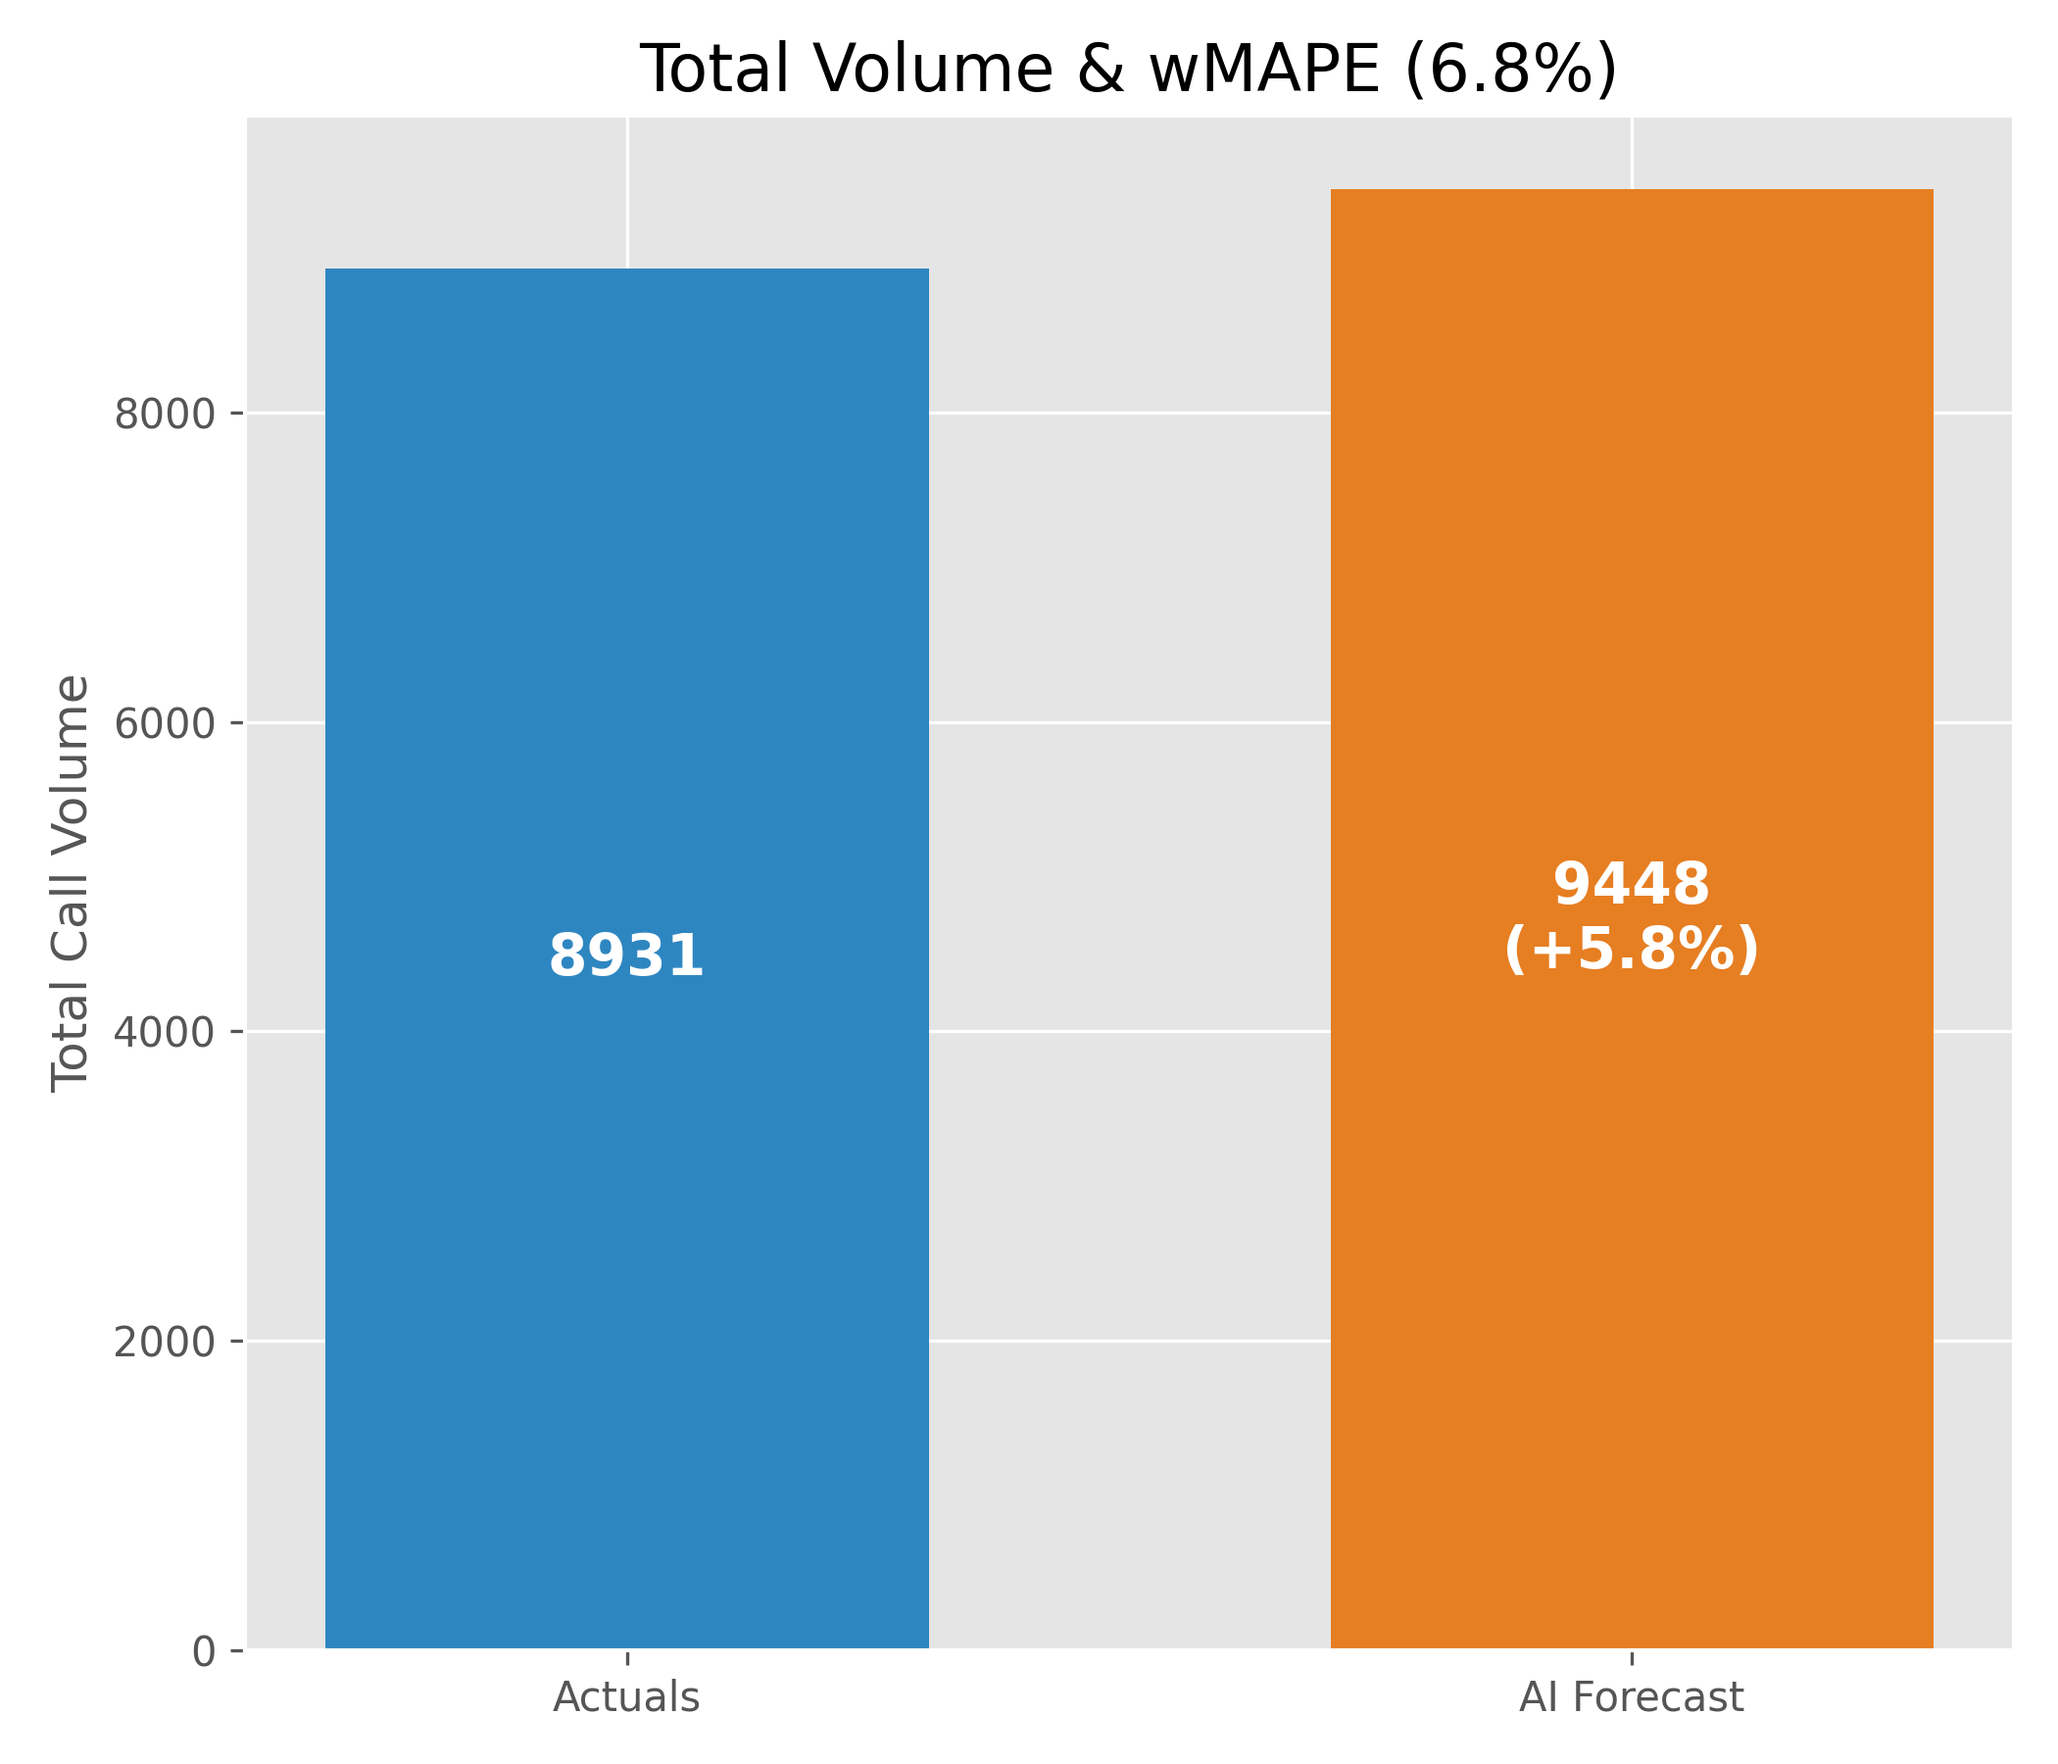
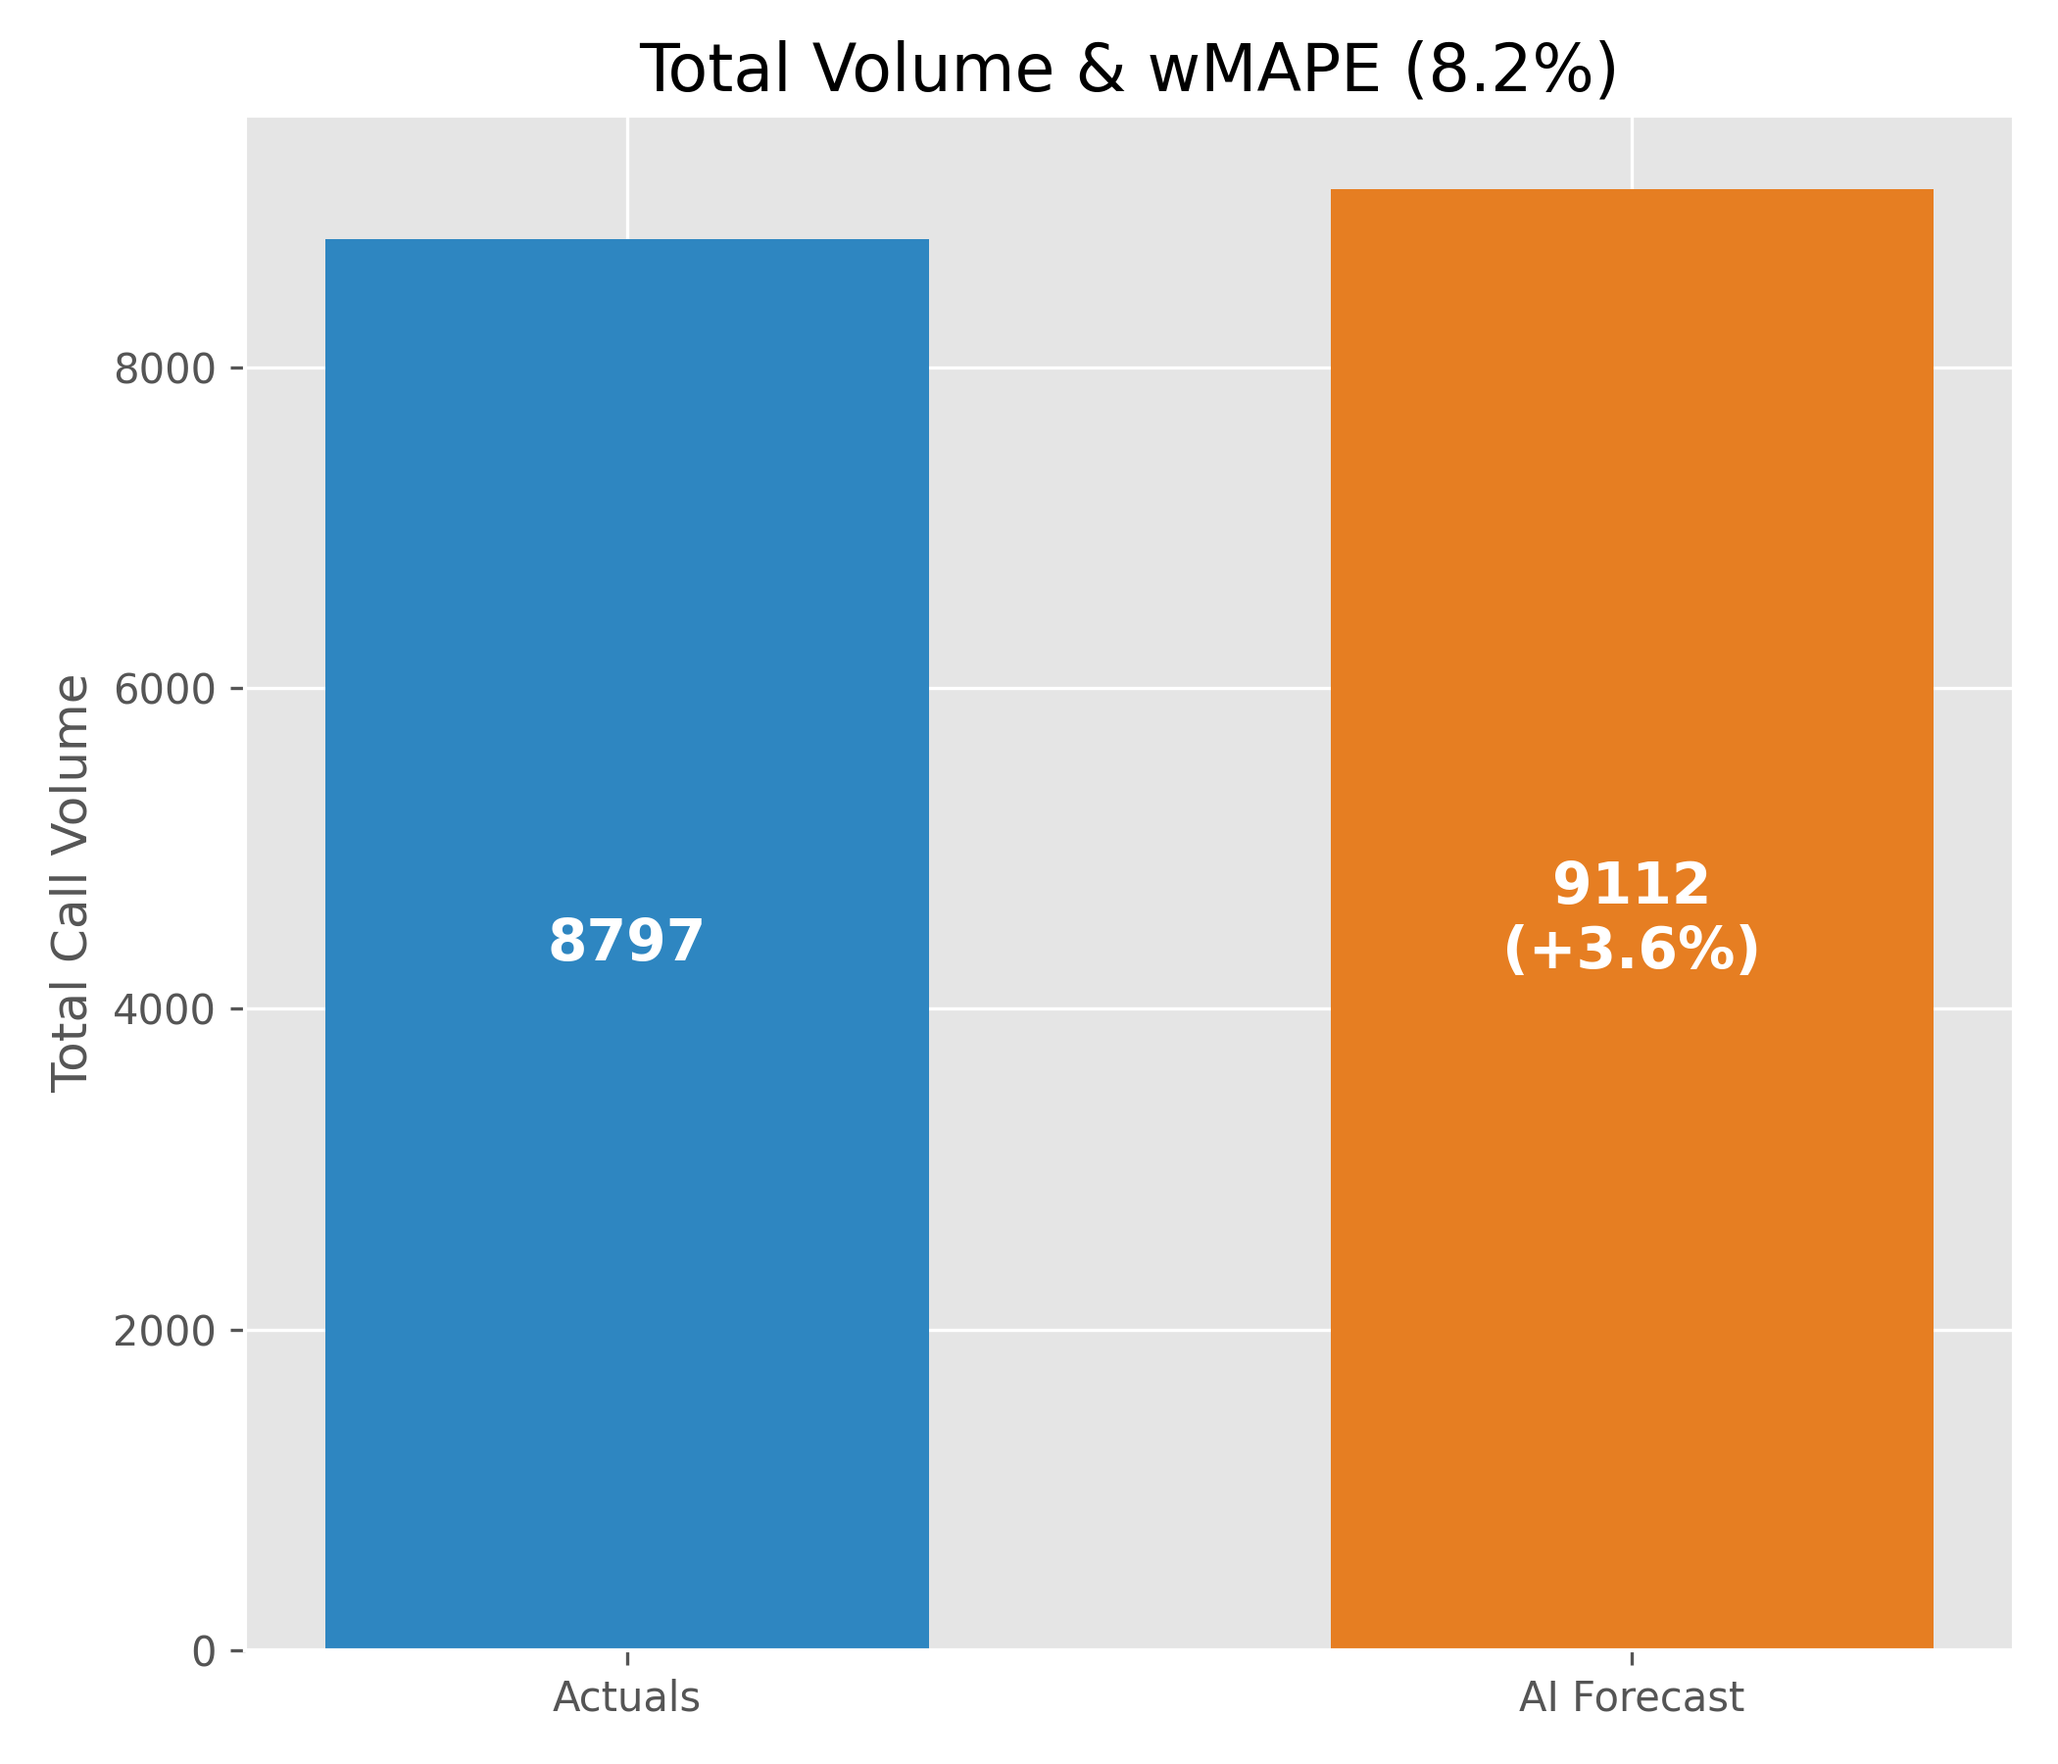
changed the hardcoded date in evaluate, new png files from the last test,mixed evaluate and generate vizuals

diff --git a/4_evaluate_forcast.py b/4_evaluate_forcast.py
@@ -1,33 +1,48 @@
 """
 ================================================================
-JOBB 4: Utvärdera Prognos (SNIPER EDITION)
+JOBB 4: Utvärdera Prognos (ALL-IN-ONE: SNIPER + GRAFIK)
 ================================================================
- Hämtar inte bara på datum (YYYY-MM-DD) utan 
-  identifierar den EXAKTA tidsstämpeln för senaste körningen.
-- Ignorerar "Zombie-data" som kan ligga kvar från gamla körningar
-  samma dag.
+Kombinerar det bästa av två världar:
+1. SNIPER MODE: Hämtar exakt rätt data (inga dubbletter).
+2. FAIR METRICS: Räknar wMAPE på Daglig Total (Rättvis för budget).
+3. VISUALS: Skapar trend- och stapelgrafer direkt.
 """
+
 import pandas as pd
 import numpy as np
-from sqlalchemy import create_engine, text
+import matplotlib.pyplot as plt
+import matplotlib.dates as mdates
+from sqlalchemy import create_engine
 import config
 import sys
+import os
 
-def evaluate_holdout_period():
-    print("--- Startar Jobb 4 (SNIPER MODE) ---")
-    if config.RUN_MODE != 'VALIDATION': return
+# Snyggare grafer
+plt.style.use('ggplot')
+COLORS = {'Actual': '#2E86C1', 'Forecast': '#E67E22'}
+
+def evaluate_and_plot():
+    print("--- Startar Jobb 4 (ALL-IN-ONE) ---")
+    if config.RUN_MODE != 'VALIDATION': 
+        print("OBS: Körs ej i PRODUCTION mode.")
+        return
     
     mssql_engine = create_engine(config.MSSQL_CONN_STR)
+    
+    # Hämta datum från config
     start_date_str = config.VALIDATION_SETTINGS['EVALUATION_START_DATE']
     end_date_str = config.VALIDATION_SETTINGS['EVALUATION_END_DATE']
+    
+    print(f"   Period: {start_date_str} till {end_date_str}")
 
     archive_table = config.TABLE_NAMES['Forecast_Archive']
     history_table = config.TABLE_NAMES['Hourly_Aggregated_History']
     
-    # 1. Hitta SENASTE EXAKTA TIDSSTÄMPELN
-    print(f"-> Siktar in sig på senaste körningen...")
+    # ---------------------------------------------------------
+    # 1. SNIPER MODE: Hitta exakt tidsstämpel
+    # ---------------------------------------------------------
+    print(f"-> 1. Siktar in sig på senaste körningen...")
     try:
-        # Vi hämtar MAX av hela datetime-objektet, inte bara datumsträngen
         sql_check = f"""
             SELECT MAX(ForecastRunDate) as MaxTimestamp
             FROM [{archive_table}] 
@@ -36,95 +51,133 @@ def evaluate_holdout_period():
         df_run = pd.read_sql(sql_check, mssql_engine)
         
         if df_run.empty or df_run.iloc[0]['MaxTimestamp'] is None:
-            print("VARNING: Inga prognoser hittades i arkivet.")
+            print("   VARNING: Inga prognoser hittades för perioden.")
             return
-            
-        # Detta är den exakta tidsstämpeln (t.ex. 2025-09-23 14:05:01.123)
-        latest_timestamp = df_run.iloc[0]['MaxTimestamp']
-        
-        # Konvertera till sträng som SQL förstår exakt
-        latest_ts_str = str(latest_timestamp)
-        # Hack för att hantera pandas/sql format ibland (ta bort .000 om det behövs, men oftast ok)
-        if '.' in latest_ts_str and len(latest_ts_str.split('.')[-1]) < 3:
-             latest_ts_str = latest_ts_str.split('.')[0] # Fallback om formatet bråkar
 
-        print(f"   -> Låst på exakt tid: {latest_ts_str}")
+        latest_ts = df_run.iloc[0]['MaxTimestamp']
+        # Konvertera till sträng för SQL-matchning
+        latest_ts_str = str(latest_timestamp_clean(latest_ts))
+        print(f"   -> Låst på körning: {latest_ts_str}")
         
     except Exception as e:
-        print(f"FEL vid sökning av prognos: {e}")
+        print(f"   FEL vid sökning: {e}")
         return
 
-    # 2. Hämta Prognos (Filtrera på EXAKT tidsstämpel)
-    print(f"-> Hämtar prognosdata (rensar bort zombies)...")
+    # ---------------------------------------------------------
+    # 2. HÄMTA DATA (Aggregerat per DAG för rättvis wMAPE)
+    # ---------------------------------------------------------
+    print(f"-> 2. Hämtar Prognos & Facit (Daglig nivå)...")
     
-    # Använd parametriserad fråga eller mycket specifik sträng för att träffa rätt
+    # PROGNOS (Filtrerad på Sniper-tid)
     sql_fc = f"""
-        SELECT DatumTid, TjänstTyp, Prognos_Antal_Samtal 
+        SELECT CAST(DatumTid AS DATE) as Datum, SUM(Prognos_Antal_Samtal) as Forecast_Volym 
         FROM [{archive_table}]
         WHERE ForecastRunDate = '{latest_ts_str}'
         AND CONVERT(date, DatumTid) BETWEEN '{start_date_str}' AND '{end_date_str}'
+        GROUP BY CAST(DatumTid AS DATE)
     """
     
-    df_fc = pd.read_sql(sql_fc, mssql_engine)
-    
-    if df_fc.empty:
-        print("   VARNING: Inga rader matchade exakta tidsstämpeln. Försöker med datum-sträng (Fallback)...")
-        # Fallback om millisekunderna strular
-        run_date_only = str(latest_timestamp).split(' ')[0]
-        sql_fc = f"""
-            SELECT DatumTid, TjänstTyp, Prognos_Antal_Samtal 
-            FROM [{archive_table}]
-            WHERE CONVERT(VARCHAR, ForecastRunDate, 23) = '{run_date_only}'
-            AND CONVERT(date, DatumTid) BETWEEN '{start_date_str}' AND '{end_date_str}'
-        """
-        df_fc = pd.read_sql(sql_fc, mssql_engine)
-
-    print(f"   -> Hittade {len(df_fc)} prognosrader.")
-    
-    df_fc['Datum'] = pd.to_datetime(df_fc['DatumTid']).dt.normalize()
-    df_fc['Key'] = df_fc['TjänstTyp'].astype(str).str.strip().str.lower()
-    
-    # Aggregera prognos
-    df_fc_agg = df_fc.groupby(['Datum', 'Key'])['Prognos_Antal_Samtal'].sum().reset_index()
-
-    # 3. Hämta Facit
-    print(f"-> Hämtar facit från {history_table}...")
+    # FACIT
     sql_act = f"""
-        SELECT ds, Tj_nstTyp, Antal_Samtal 
+        SELECT CAST(ds AS DATE) as Datum, SUM(Antal_Samtal) as Actual_Volym 
         FROM [{history_table}] 
         WHERE CONVERT(date, ds) BETWEEN '{start_date_str}' AND '{end_date_str}'
+        GROUP BY CAST(ds AS DATE)
     """
-    df_act = pd.read_sql(sql_act, mssql_engine)
-    df_act['Datum'] = pd.to_datetime(df_act['ds']).dt.normalize()
-    df_act['Key'] = df_act['Tj_nstTyp'].astype(str).str.strip().str.lower()
     
-    df_act_agg = df_act.groupby(['Datum', 'Key'])['Antal_Samtal'].sum().reset_index()
+    try:
+        df_fc = pd.read_sql(sql_fc, mssql_engine)
+        # Fallback om exakt timestamp strular (ibland är SQL kinkig med millisekunder)
+        if df_fc.empty:
+            print("   (Sniper missade millisekunder, testar datum-matchning...)")
+            run_date_only = str(latest_ts).split(' ')[0]
+            sql_fc = sql_fc.replace(f"ForecastRunDate = '{latest_ts_str}'", f"CONVERT(VARCHAR, ForecastRunDate, 23) = '{run_date_only}'")
+            df_fc = pd.read_sql(sql_fc, mssql_engine)
 
-    # 4. Jämför
-    df_merged = pd.merge(df_act_agg, df_fc_agg, on=['Datum', 'Key'], how='inner', suffixes=('_act', '_fc'))
-    
-    total_act = df_merged['Antal_Samtal'].sum()
-    total_fc = df_merged['Prognos_Antal_Samtal'].sum()
-    
-    if total_act == 0:
-        print("Ingen matchning mellan prognos och verklighet (kontrollera tjänstenamn).")
+        df_act = pd.read_sql(sql_act, mssql_engine)
+        
+        # Konvertera datum
+        df_fc['Datum'] = pd.to_datetime(df_fc['Datum'])
+        df_act['Datum'] = pd.to_datetime(df_act['Datum'])
+        
+    except Exception as e:
+        print(f"   FEL vid datahämtning: {e}")
         return
 
-    df_merged['AbsErr'] = (df_merged['Antal_Samtal'] - df_merged['Prognos_Antal_Samtal']).abs()
-    wmape = (df_merged['AbsErr'].sum() / total_act) * 100
-    accuracy = max(0, 100 - wmape)
+    # ---------------------------------------------------------
+    # 3. JÄMFÖR & RÄKNA (Fair Metrics)
+    # ---------------------------------------------------------
+    df_merged = pd.merge(df_act, df_fc, on='Datum', how='outer').fillna(0).sort_values('Datum')
+    
+    total_act = df_merged['Actual_Volym'].sum()
+    total_fc = df_merged['Forecast_Volym'].sum()
+    diff = total_fc - total_act
+    
+    # Rättvis wMAPE (Daglig nivå)
+    df_merged['AbsError'] = (df_merged['Actual_Volym'] - df_merged['Forecast_Volym']).abs()
+    
+    if total_act > 0:
+        wmape = (df_merged['AbsError'].sum() / total_act) * 100
+        accuracy = 100 - wmape
+    else:
+        wmape = 0
+        accuracy = 0
 
     print(f"\nRESULTAT ({start_date_str} - {end_date_str}):")
-    print("="*40)
-    print(f"Körning ID (Tid):   {latest_ts_str}")
-    print("-" * 20)
+    print("="*50)
     print(f"Verklig Volym:      {int(total_act)}")
     print(f"Prognos Volym:      {int(total_fc)}")
-    print(f"Diff (Antal):       {int(total_fc - total_act)}")
-    print("-" * 20)
-    print(f"wMAPE (Felprocent): {wmape:.2f}%")
+    print(f"Diff (Antal):       {int(diff)} ({diff/total_act:+.1%})")
+    print("-" * 30)
+    print(f"wMAPE (Rättvis):    {wmape:.2f}%  <-- Denna siffra ska till rapporten!")
     print(f"Träffsäkerhet:      {accuracy:.2f}%")
-    print("="*40)
+    print("="*50)
+
+    # ---------------------------------------------------------
+    # 4. SKAPA GRAFER (Engelska för rapporten)
+    # ---------------------------------------------------------
+    print("-> 4. Genererar grafer...")
+    
+    # Graf 1: Trend
+    plt.figure(figsize=(10, 6))
+    plt.plot(df_merged['Datum'], df_merged['Actual_Volym'], label='Actuals', color=COLORS['Actual'], marker='o', linewidth=3)
+    plt.plot(df_merged['Datum'], df_merged['Forecast_Volym'], label='AI Forecast', color=COLORS['Forecast'], marker='o', linestyle='--', linewidth=3)
+    
+    plt.title(f"Daily Forecast Accuracy: {start_date_str} - {end_date_str}", fontsize=16)
+    plt.ylabel("Call Volume", fontsize=12)
+    plt.xlabel("Date", fontsize=12)
+    plt.legend()
+    plt.grid(True, alpha=0.3)
+    plt.gca().xaxis.set_major_formatter(mdates.DateFormatter('%Y-%m-%d'))
+    plt.xticks(rotation=45)
+    plt.tight_layout()
+    plt.savefig('Rapport_Figur_1_Trend.png', dpi=300)
+    
+    # Graf 2: Total
+    plt.figure(figsize=(7, 6))
+    bars = plt.bar(['Actuals', 'AI Forecast'], [total_act, total_fc], color=[COLORS['Actual'], COLORS['Forecast']], width=0.6)
+    
+    for i, bar in enumerate(bars):
+        height = bar.get_height()
+        label = f"{int(height)}"
+        if i == 1: 
+            diff_pct = (total_fc / total_act) - 1
+            label += f"\n({diff_pct:+.1%})"
+        plt.text(bar.get_x() + bar.get_width()/2, height/2, label, ha='center', va='center', fontsize=14, fontweight='bold', color='white')
+        
+    plt.title(f"Total Volume & wMAPE ({wmape:.1f}%)", fontsize=16)
+    plt.ylabel("Total Call Volume")
+    plt.tight_layout()
+    plt.savefig('Rapport_Figur_2_Total.png', dpi=300)
+    
+    print("-> KLART! Bilder sparade: 'Rapport_Figur_1_Trend.png' & 'Rapport_Figur_2_Total.png'")
+
+# Hjälpfunktion för att städa tidsstämpel
+def latest_timestamp_clean(ts):
+    str_ts = str(ts)
+    if '.' in str_ts and len(str_ts.split('.')[-1]) < 3:
+        return str_ts.split('.')[0]
+    return str_ts
 
 if __name__ == '__main__':
-    evaluate_holdout_period()
+    evaluate_and_plot()

diff --git a/5_Generate_Report_visuals_final.py b/5_Generate_Report_visuals_final.py
@@ -5,7 +5,7 @@ JOBB 5: Generate Report Visuals (Final Version)
 Data: 
   - Forecast: 'Frcast_Operative_Calls_By_Service'
   - Actuals: 'Fact_Hourly_Aggregated_History'
-Period: 2025-09-24 to 2025-09-30
+Period: hämtas från config validation mode
 Output: KPIs (wMAPE) + Graphs (.png)
 """
 
@@ -30,8 +30,9 @@ def generate_report_evidence():
         print(f"Connection error: {e}")
         return
 
-    start_date = '2025-09-24'
-    end_date = '2025-09-30'
+    # Hämta datum dynamiskt från config istället för att hårdkoda
+    start_date = config.VALIDATION_SETTINGS['EVALUATION_START_DATE']
+    end_date = config.VALIDATION_SETTINGS['EVALUATION_END_DATE']
     
     # ---------------------------------------------------------
     # 1. GET FORECAST
